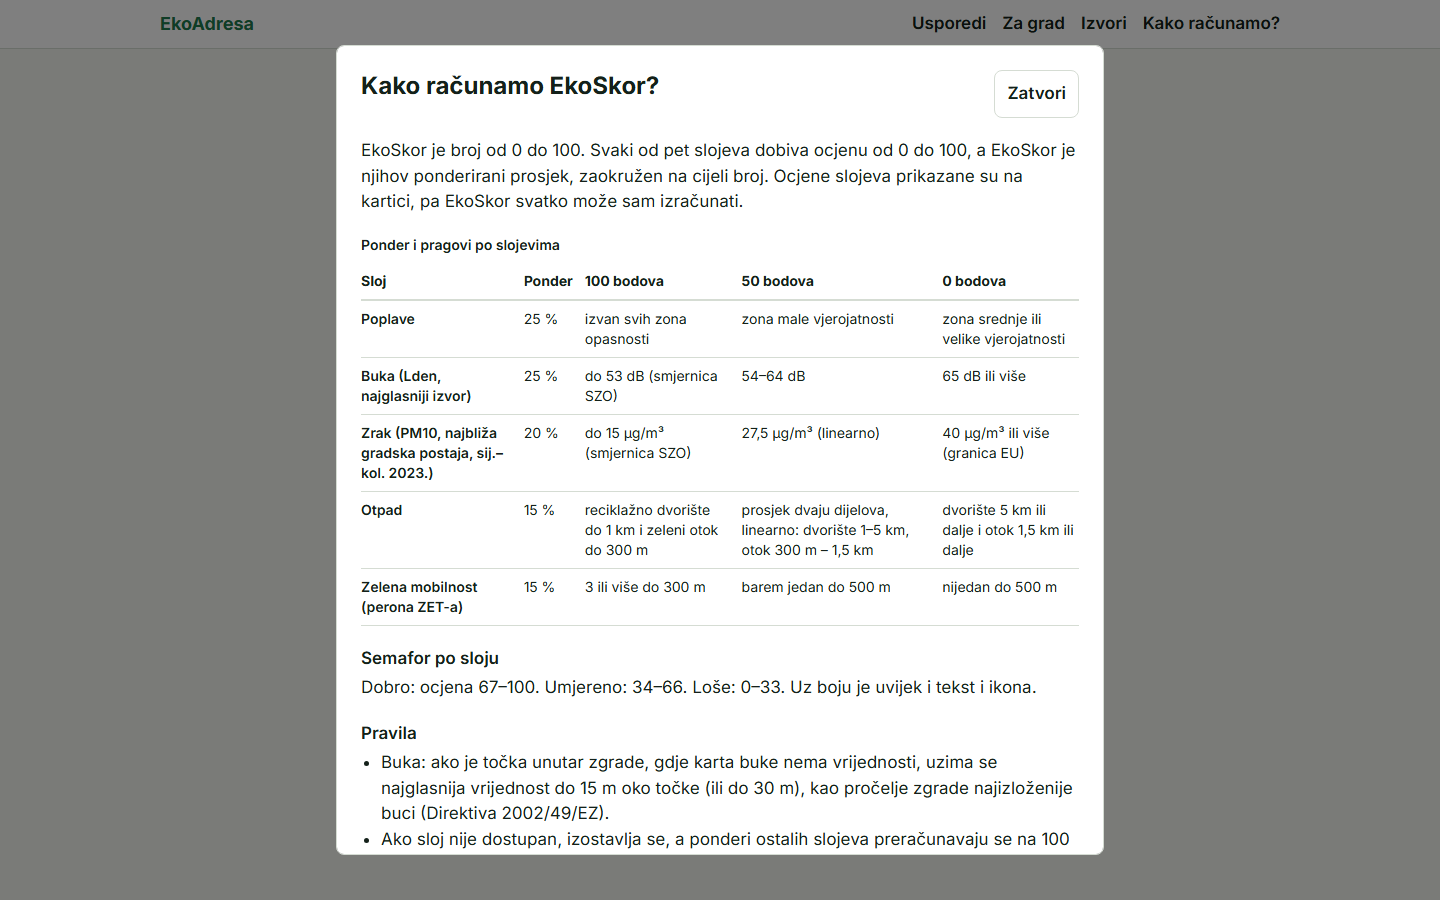
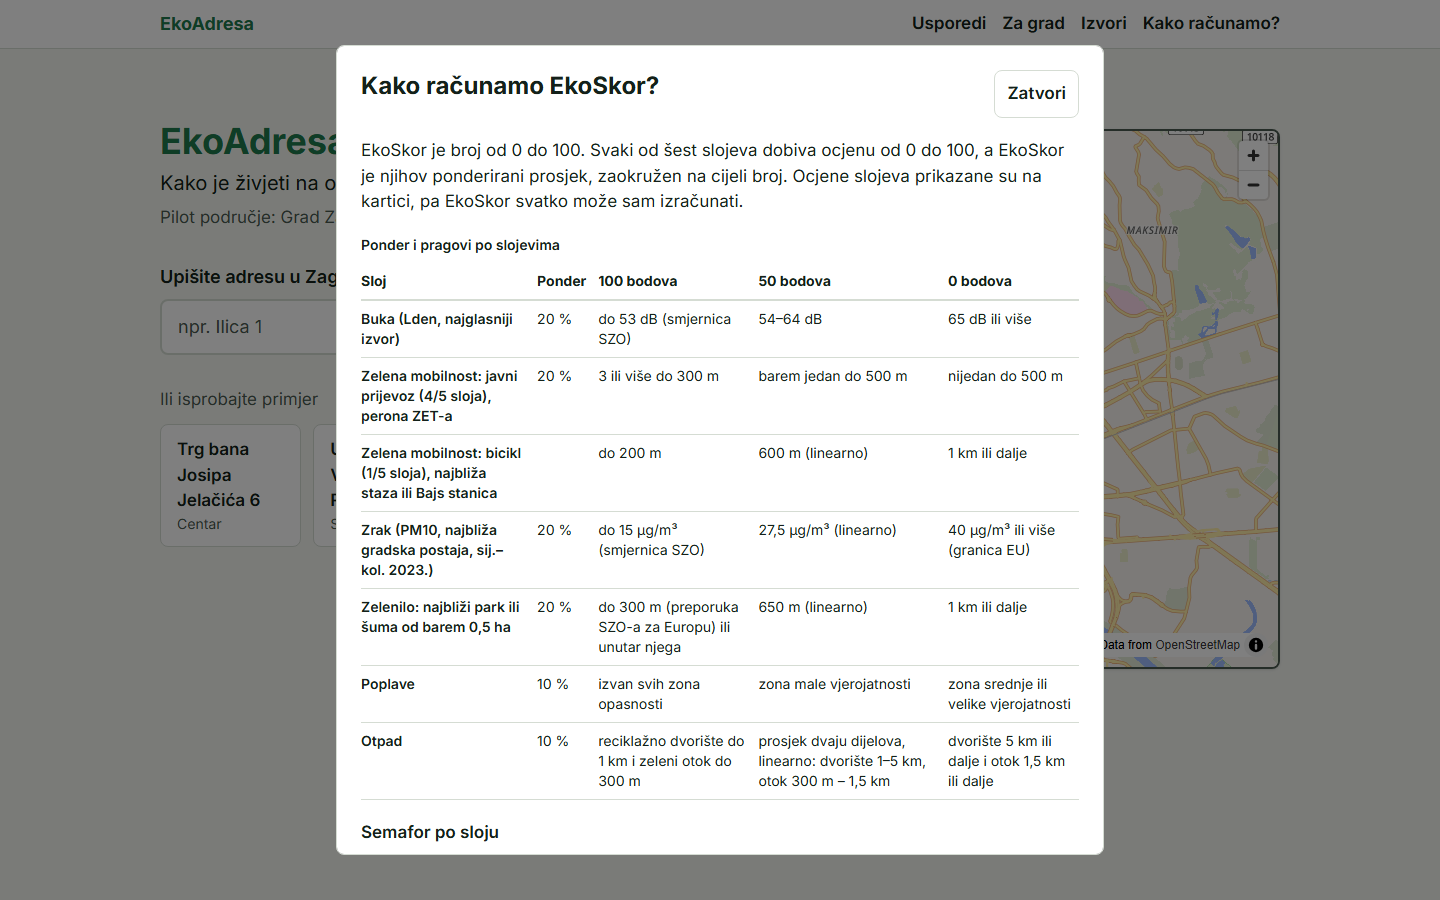
docs: plain-language intro to how it works, mark setup as developer section, retake screenshots

diff --git a/README.md b/README.md
@@ -53,11 +53,15 @@ Potpun popis s poveznicama, licencijama i datumima: **[docs/data-sources.md](doc
 
 ## Kako radi
 
-React frontend (Vercel CDN) poziva FastAPI backend (Vercel, Frankfurt). Backend za svaku adresu istodobno upituje javne WMS/WFS servise i spremljene snimke otvorenih skupova, sprema odgovore servisa i računa EkoSkor prema javnoj formuli. Za 15 nasumičnih adresa odgovor stiže za p95 0,50 s bez predmemorije. Detalji: **[docs/arhitektura.md](docs/arhitektura.md)**.
+Kad upišete adresu, aplikacija u istom trenutku pita javne servise Hrvatskih voda i Grada Zagreba što vrijedi za tu točku, dopuni odgovor spremljenim otvorenim podacima (zrak, otpad, prijevoz, zelenilo) i za manje od sekunde prikaže ocjenu. Ništa se ne procjenjuje „od oka": svaki broj dolazi iz navedenog izvora, a EkoSkor se računa prema objavljenoj formuli.
+
+Tehnički: React frontend (Vercel CDN) poziva FastAPI backend (Vercel, Frankfurt). Backend za svaku adresu istodobno upituje javne WMS/WFS servise i spremljene snimke otvorenih skupova, sprema odgovore servisa i računa EkoSkor prema javnoj formuli. Za 15 nasumičnih adresa odgovor stiže za p95 0,50 s bez predmemorije. Detalji: **[docs/arhitektura.md](docs/arhitektura.md)**.
 
 Aplikacija u radu ne koristi umjetnu inteligenciju: EkoSkor je izračun prema objavljenoj formuli. Za izradu je korišten alat umjetne inteligencije **Claude Code** (Anthropic); popis svih alata i licencija: [docs/alati.md](docs/alati.md).
 
-## Pokretanje
+## Pokretanje (za razvojne programere)
+
+Za korištenje aplikacije ništa ne treba instalirati: dovoljno je otvoriti [demo](https://ekoadresa.vercel.app). Ovaj dio je za one koji je žele pokrenuti na svom računalu ili razvijati dalje.
 
 ### Docker (preporučeno)
 
